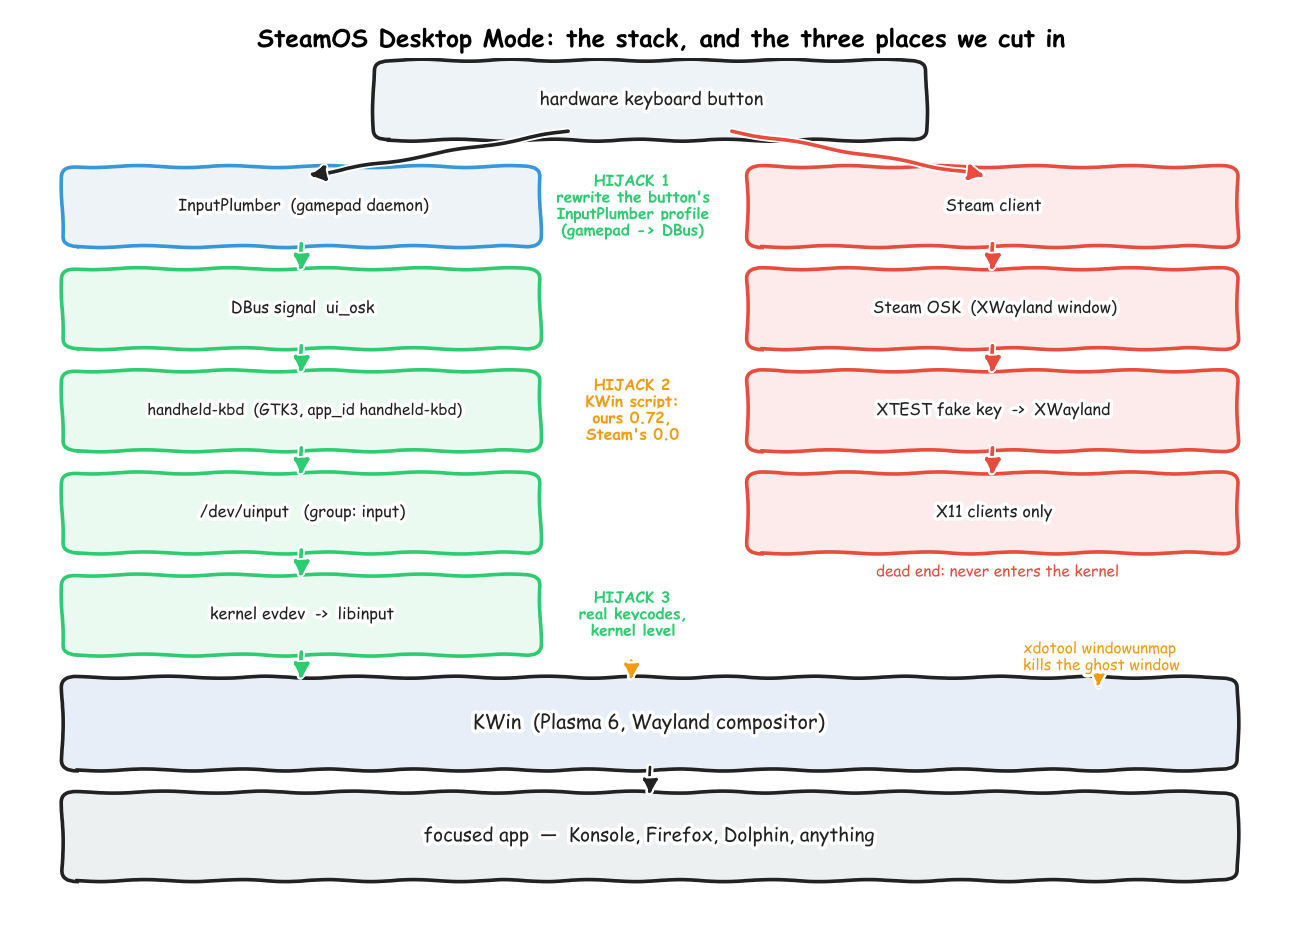
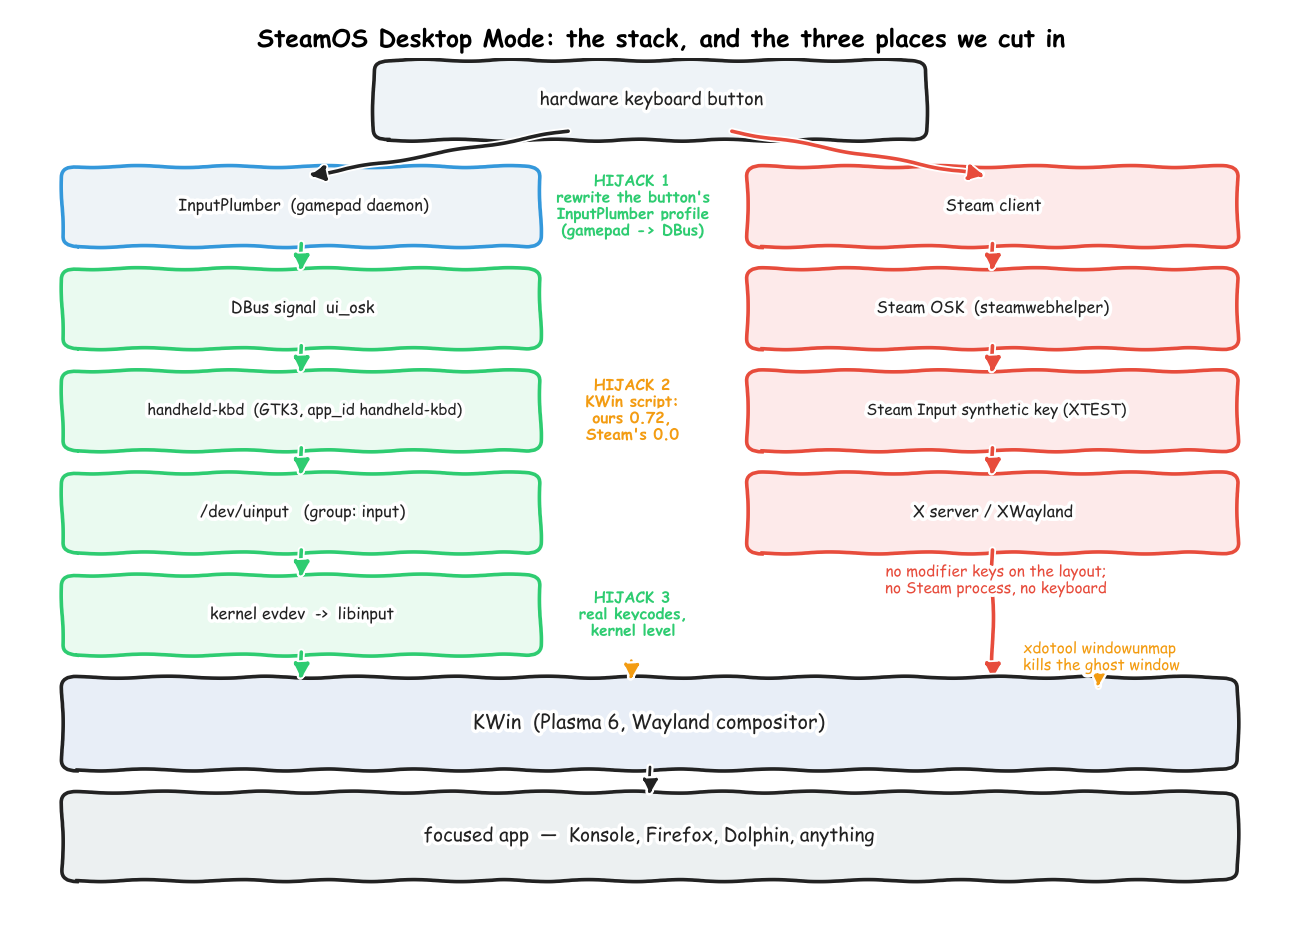
Correct injection-path claims in Steam Deck keyboard post
Steam's OSK does reach apps, including Wayland clients — the blocker is
that no modifier keys exist on its layout and it dies with the Steam
client. Also note the Plasma 6 / Wayland-default split across SteamOS
versions, and the panel resolutions the opacity default is tuned for.

diff --git a/_posts/2026-08-05-steam-deck-keyboard.md b/_posts/2026-08-05-steam-deck-keyboard.md
@@ -2,14 +2,14 @@
 layout: post
 title: "Hijacking the Steam Deck's On-Screen Keyboard"
 date: 2026-08-05
-description: "Steam's OSK fakes keystrokes at the X11 layer, so Ctrl never works. I built one that types through /dev/uinput instead."
+description: "Steam's OSK has no Ctrl, Alt or Esc, and it dies with Steam. I built one that types real keycodes through /dev/uinput instead."
 ---
 
-**TL;DR:** Steam's on-screen keyboard has no `Ctrl`, no `Alt`, no `Esc` and no F-keys, and what it does send is synthesised at the X11 layer — so it can't drive a terminal or a native Wayland app. I wrote a replacement that injects real keycodes through `/dev/uinput` and remapped the hardware keyboard button to summon it instead. Code: [better-handheld-keyboard](https://github.com/AdamLovattDevOps/better-handheld-keyboard).
+**TL;DR:** Steam's on-screen keyboard types letters fine, but it exposes no `Ctrl`, `Alt`, `Super`, `Esc` or F-keys at all, so no shortcut is reachable — and it only exists while Steam is running. I wrote a replacement that registers a virtual input device on `/dev/uinput` and remapped the hardware keyboard button to summon it. Code: [better-handheld-keyboard](https://github.com/AdamLovattDevOps/better-handheld-keyboard).
 
 ## The stock keyboard
 
-Desktop Mode on a SteamOS handheld is KDE Plasma 6 on Wayland. A real desktop. The only text input you get without plugging in USB is Steam's on-screen keyboard, summoned with `Steam + X`.
+Desktop Mode on a SteamOS handheld is a full KDE Plasma desktop — Plasma 6 since SteamOS 3.7, on Wayland by default since 3.8.10 (before that, X11 unless you switched it yourself). The only text input you get without plugging in USB is Steam's on-screen keyboard, summoned with `Steam + X`.
 
 ![Steam's on-screen keyboard in Desktop Mode, annotated](/assets/images/stock-steam-osk.png)
 
@@ -17,27 +17,28 @@ Desktop Mode on a SteamOS handheld is KDE Plasma 6 on Wayland. A real desktop. T
 
 The gaps aren't subtle:
 
-- **No `Ctrl`.** No `Ctrl+C`, no `Ctrl+D`, no `Ctrl+W`. A terminal is unusable.
+- **No `Ctrl`.** No `Ctrl+C`, no `Ctrl+D`, no `Ctrl+W`. Letters reach the terminal; the moment you need to interrupt something, you're stuck.
 - **No `Alt`, no `Super`.** No menu traversal, no window management, no KDE shortcuts.
 - **No `Esc`, no `F1`–`F12`, no `Home`/`End`, no `PgUp`/`PgDn`, no `Del`.** Refresh in Firefox, escape a dialog, jump to the start of a line — all unreachable.
 - **Arrow keys exist, barely.** Four half-height keys in the bottom-right corner, next to `Paste` and `Move`.
 - **Keys that aren't keys.** `X`, `R2` and `L2` glyphs sit on `Backspace`, `Enter` and `Shift` — it's a controller UI wearing a keyboard's clothes.
 - **Opaque, and half the screen.** You can't see the thing you're typing into.
+- **It needs Steam.** It's a Steam client window (`steamwebhelper`). No Steam process, no keyboard.
 
 These are documented complaints going back to launch, not my discovery. It's a keyboard designed for entering a password into a login box, sat in front of a full KDE desktop.
 
 ## Why a replacement instead of a patch
 
-The keys aren't the interesting part — the injection path is.
+The keys aren't the interesting part — where the event is born is.
 
 ![Two ways to fake a keystroke](/assets/images/keystroke-paths.png)
 
-Steam's OSK is an XWayland client called `Steam Input On-screen Keyboard`, and Steam Input fakes its events with the X11 **XTEST** extension. That has two consequences:
+Steam's OSK is a Steam client window whose input goes out through Steam Input's synthetic-input path, which on Linux is built on X11 (`XTEST`). Two practical consequences, neither of which is fixable from the outside:
 
-1. The event is born inside the X server, so it reaches XWayland clients and nothing else. Native Wayland clients are not in that world.
-2. It's a synthetic key press, not a device. Modifier state is whatever the X server can be talked into, not a physical latch — which is why held modifiers are unreliable even where the keys exist.
+1. **Nothing to press.** The layout simply has no modifier keys on it. Whatever the injection path can do, you can't ask it for `Ctrl+C`.
+2. **It's Steam's, not the system's.** It lives and dies with the Steam client, and Steam Input's behaviour on Wayland sessions is patchy enough that a shim ([extest](https://gitlab.com/ancurio/extest)) exists purely to feed it the `XTEST` interface it expects.
 
-Mine goes the other way. `python-evdev` opens `/dev/uinput` and registers a virtual input device, then writes real keycodes into it. The kernel emits them via evdev, libinput picks them up, KWin routes them to whatever holds focus. At that point nothing in userspace can tell it apart from a USB keyboard, so `Ctrl`, `Alt`, `Super`, `F1`–`F12`, `Tab`, `Esc` and the arrows all work everywhere — including `Ctrl+C` in Konsole.
+Mine goes in a layer lower. `python-evdev` opens `/dev/uinput` and registers a virtual input device, then writes real keycodes into it. The kernel emits them via evdev, libinput picks them up, the compositor routes them to whatever holds focus. Nothing in userspace can tell it apart from a USB keyboard, so `Ctrl`, `Alt`, `Super`, `F1`–`F12`, `Tab`, `Esc` and the arrows work everywhere — X11 session or Wayland, XWayland client or native — including `Ctrl+C` in Konsole.
 
 Cost of that approach: the process needs write access to `/dev/uinput`, i.e. membership of the `input` group and a udev rule. That's the whole reason the installer asks for a password once and then makes you log out.
 
@@ -71,7 +72,7 @@ The script is regenerated from `config.json` at daemon start, and the daemon re-
 
 The default trigger mode doesn't fight Steam, it rides it: the keyboard button still opens Steam's OSK, KWin makes that invisible, and a daemon mirrors its visibility onto ours via `SIGUSR1`/`SIGUSR2` on a 100 ms poll.
 
-Which surfaces a Valve bug ([steam-for-linux#9099](https://github.com/ValveSoftware/steam-for-linux/issues/9099)): the OSK leaves windows mapped after dismissal. Opacity `0.0` is invisible, not gone — it still swallows every tap in its rectangle.
+Opacity `0.0` is invisible, not gone — a fully transparent window still sits there swallowing every tap in its rectangle. Valve's own bug compounds it: dismissing the OSK can leave an invisible window mapped and on top, blocking input to whatever is underneath ([steam-for-linux#9099](https://github.com/ValveSoftware/steam-for-linux/issues/9099)).
 
 ![Opacity 0 is not gone](/assets/images/osk-ghost-window.png)
 
@@ -92,6 +93,8 @@ The daemon also watchdogs the keyboard process: its Wayland connection drops whe
 
 Translucent, full key set, US/UK layout switching via a 🌐 key that flips KDE's XKB layout over `org.kde.KeyboardLayouts` DBus **and** re-skins the labels, so what's printed and what's typed stay in sync.
 
+The transparency isn't decoration. A Steam Deck is 1280×800; a Legion Go 2 is 1920×1200. A full-width keyboard eats the bottom third either way, and on those panels there are no pixels to spare — so you need to read the terminal output or the form field you're typing into *through* the keys. Opacity defaults to `0.72` and is a number in `config.json`.
+
 Layout, theme, key sizes, opacity and geometry are plain JSON in `~/.config/handheld-kbd/`. Adding a key is a JSON object with a `label` and an evdev `key` name; unknown key names are skipped with a warning rather than taking the keyboard down.
 
 Two things deliberately absent:
@@ -101,7 +104,7 @@ Two things deliberately absent:
 
 ## Install
 
-Desktop Mode, KDE Plasma 6 (Wayland). Needs `python3`, `python-gobject` (GTK 3), `python-evdev`.
+Desktop Mode, KDE Plasma 6, Wayland session (default from SteamOS 3.8.10; on 3.7 it's `steamos-session-select plasma-wayland-persistent`). Needs `python3`, `python-gobject` (GTK 3), `python-evdev`.
 
 ```bash
 git clone https://github.com/AdamLovattDevOps/better-handheld-keyboard
@@ -115,6 +118,6 @@ There's an experimental gamescope-overlay path for Game Mode in the code, gated 
 
 ---
 
-*Built against SteamOS Desktop Mode on a KDE Plasma 6 handheld. The InputPlumber remap is the only device-specific part — it targets the Legion Go's keyboard button — and the default mirror mode works without it.*
+*Tested on a Steam Deck (1280×800) and a Legion Go 2 (1920×1200). The InputPlumber remap is the only device-specific part — it targets the Legion Go's keyboard button — and the default mirror mode works without it.*
 
-Sources: [PCGamesN on the Desktop Mode keyboard](https://www.pcgamesn.com/steam-deck/keyboard-desktop-mode) · [steam-for-linux#9099](https://github.com/ValveSoftware/steam-for-linux/issues/9099) · [gamescope#33 on XTEST under XWayland](https://github.com/ValveSoftware/gamescope/issues/33)
+Sources: [PCGamesN on the Desktop Mode keyboard](https://www.pcgamesn.com/steam-deck/keyboard-desktop-mode) · [steam-for-linux#9099 (invisible window blocks input)](https://github.com/ValveSoftware/steam-for-linux/issues/9099) · [steam-for-linux#10632 (Steam Input on Wayland)](https://github.com/ValveSoftware/steam-for-linux/issues/10632) · [SteamOS 3.8.10 release notes (Plasma 6.4.3, Wayland default)](https://www.opensourcefeed.org/steamos-3-8-10-release/)
